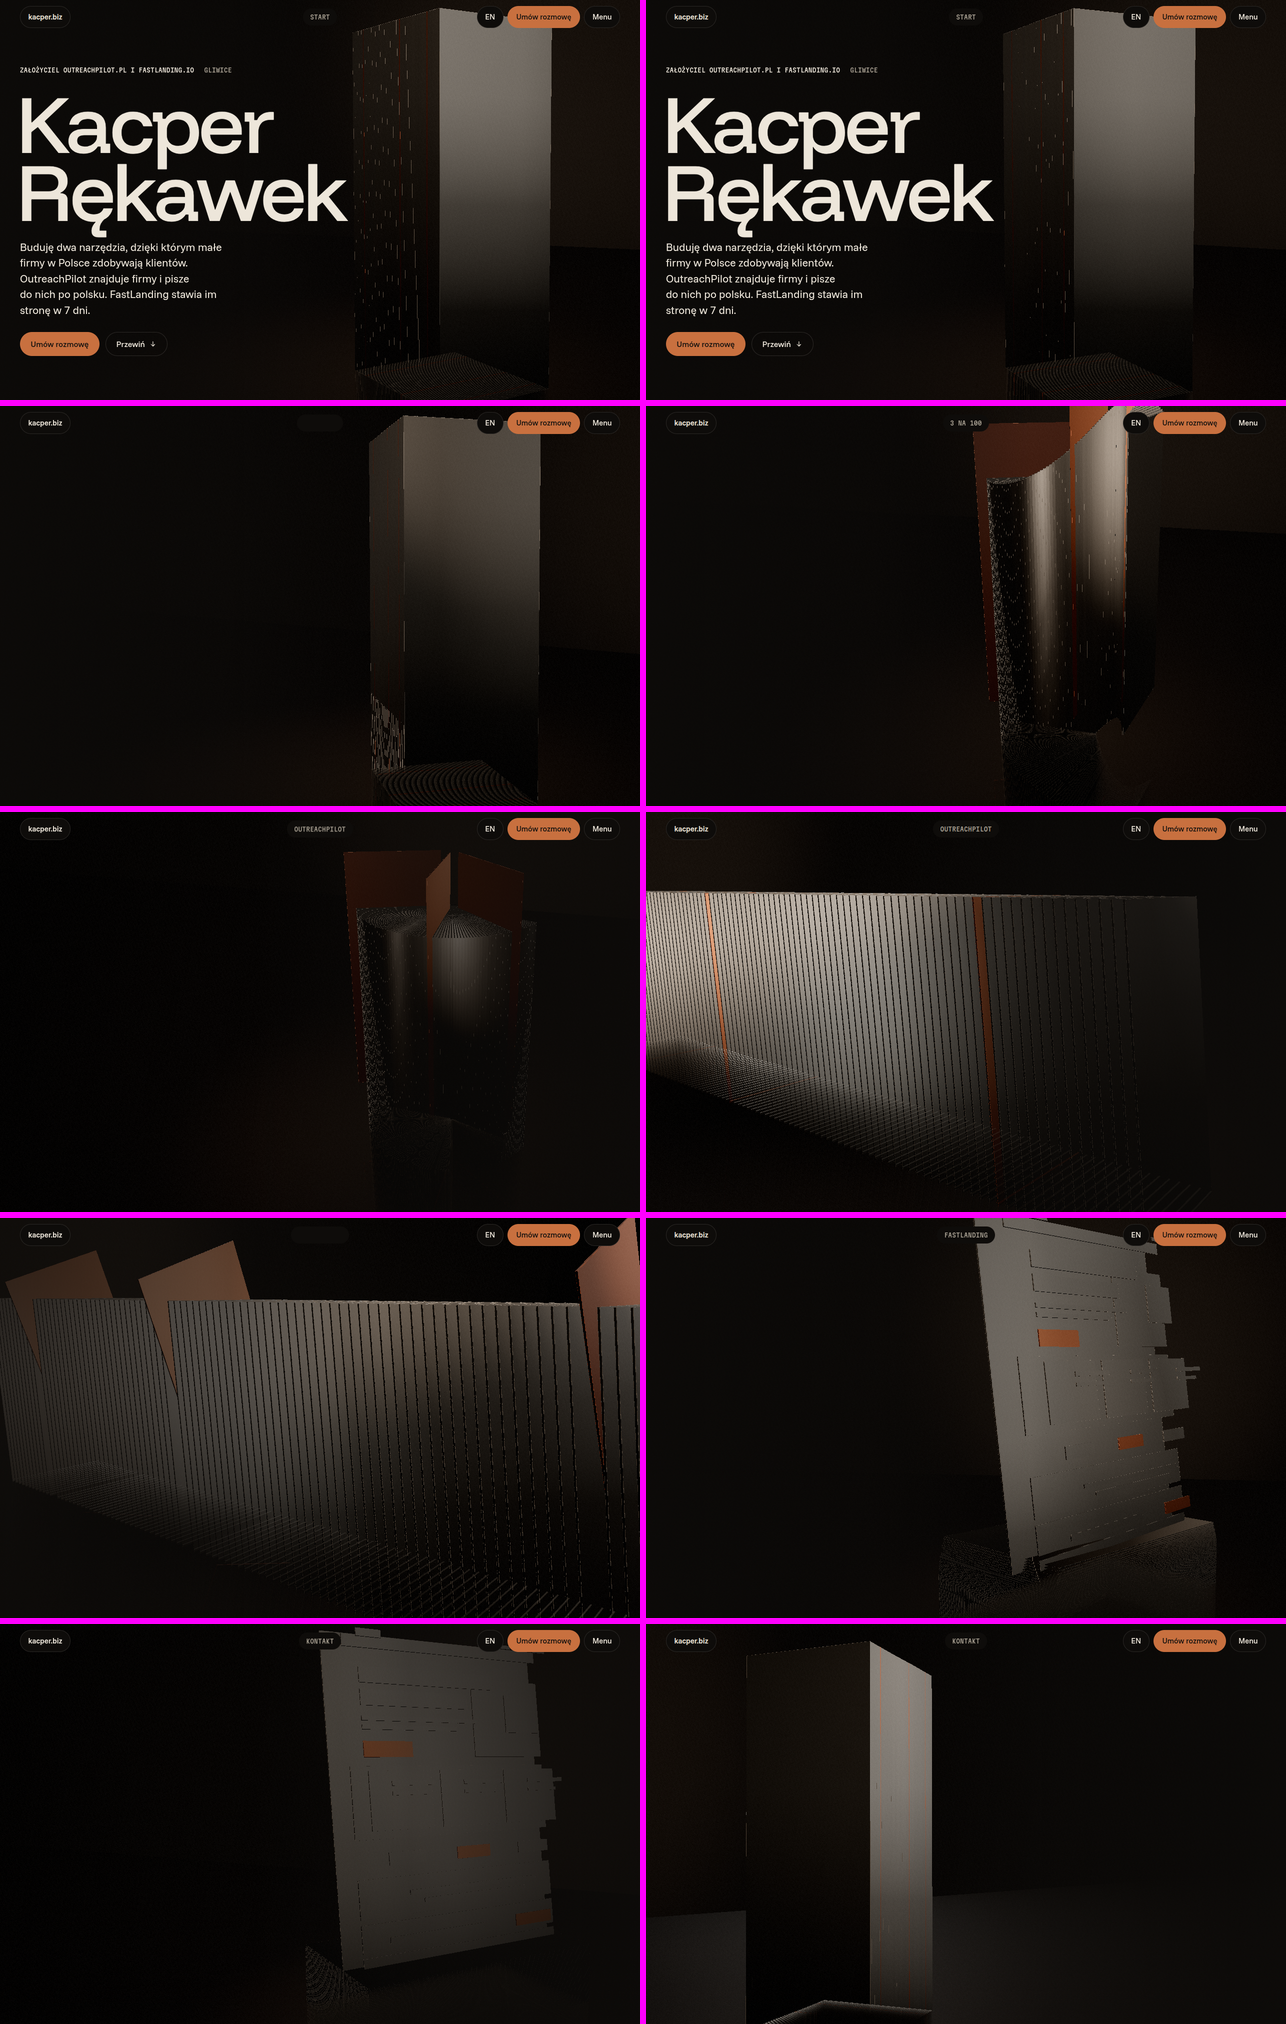
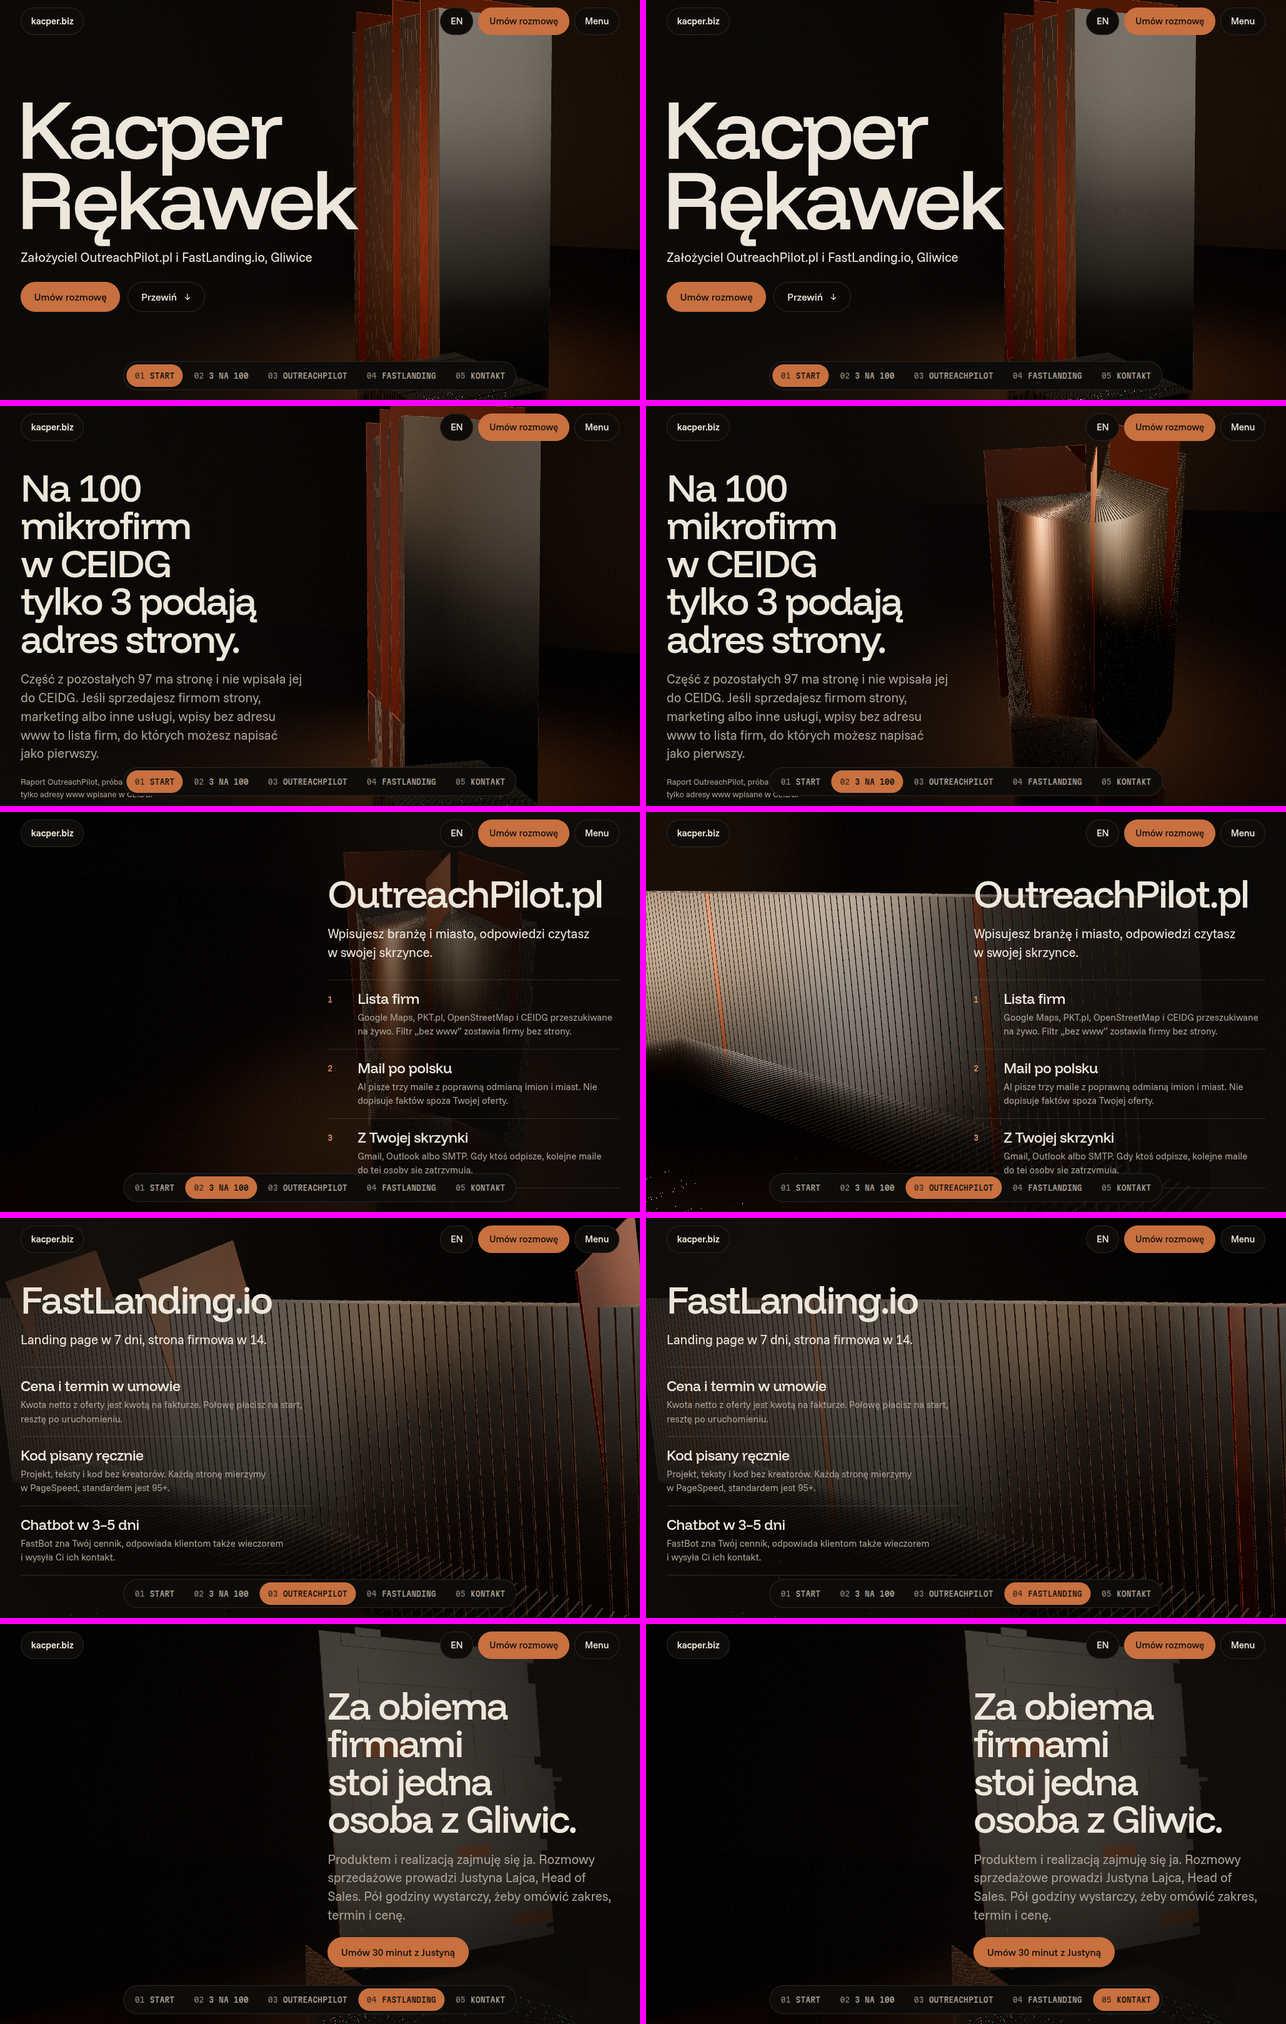
Rebuild after finish review: machined material, copper that takes the light, chapter rail
- stills rendered 3x supersampled off the canvas; the plate shading flattens by output-pixel
  pitch, chamfers get five segments and plates no longer self-shadow, so the stack reads as
  fine machined lines without moire
- the three copper slices stand proud of the block and catch the key; a low copper spill
  warms the floor and the foot of the object
- type holds still: copy fades removed, one line-mask reveal per chapter headline, so the
  chapter copy is always there with or without the film
- chapter rail on the film's bottom edge replaces the header chapter pill
- kickers removed; product chapters set the product name as the display line; one-line
  offer under the name; phone hero fits object, name, offer and actions
- source notes in Funnel Sans; contract clauses without false numbering

Claude-Session: https://claude.ai/code/session_01PECqvRYuMqha9srKUyUX4Z

diff --git a/src/film/monolith.ts b/src/film/monolith.ts
@@ -49,7 +49,9 @@ function monolith(yaw: number): Pose {
   const P = blank();
   const turn = qEuler(0, yaw, 0);
   for (let i = 0; i < N; i++) {
-    P.p[i]!.set((i - (N - 1) / 2) * PITCH, H / 2, 0).applyQuaternion(turn);
+    // the three copper slices stand a few millimetres proud of the block, so their edges take the key light
+    const proud = isCopper(i) ? 1 : 0;
+    P.p[i]!.set((i - (N - 1) / 2) * PITCH, H / 2 + proud * 0.14, proud * 0.06).applyQuaternion(turn);
     P.q[i]!.copy(turn);
     P.order[i] = Math.abs(i - (N - 1) / 2) / ((N - 1) / 2);
     P.occ[i * 2] = i > 0 ? 1 : 0;
@@ -173,18 +175,21 @@ export interface Monolith {
   poses: Pose[];
   /** Blend pose a -> b at t (0..1), with `local` the in-chapter progress for per-chapter motion. */
   apply(a: number, b: number, t: number, local: number, time: number): void;
+  /** Device pixels per output pixel (the supersample factor for stills). */
+  setPxScale(v: number): void;
   dispose(): void;
 }
 
 export function buildMonolith(shadows: boolean): Monolith {
-  const geo = new RoundedBoxGeometry(T, H, D, 2, T * 0.16);
+  const geo = new RoundedBoxGeometry(T, H, D, 5, T * 0.16);
   const mat = new MeshPhysicalMaterial({
     color: '#ffffff', metalness: 1, roughness: 0.3, envMapIntensity: 1.25,
   });
   const mesh = new InstancedMesh(geo, mat, N);
   mesh.instanceMatrix.setUsage(DynamicDrawUsage);
   mesh.castShadow = shadows;
-  mesh.receiveShadow = shadows;
+  // plates cast the contact shadow but never receive one: self-shadowing on 12 mm slices is all acne, no form
+  mesh.receiveShadow = false;
   mesh.frustumCulled = false;
   // anodized aluminium, a warm space grey; polished copper
   const steel = new Color('#8f8b84');
@@ -198,12 +203,15 @@ export function buildMonolith(shadows: boolean): Monolith {
   occ.setUsage(DynamicDrawUsage);
   geo.setAttribute('aOcc', occ);
   const VARY = 'varying float vRough;\nvarying vec2 vOcc;\nvarying vec3 vLocalN;\nvarying float vWorldY;\nvarying vec3 vWorldP;\nvarying vec3 vAx;\nvarying vec3 vAy;\nvarying vec3 vAz;\n';
-  const patch = (reflection: boolean) => (s: { vertexShader: string; fragmentShader: string }) => {
+  // device pixels per output pixel: 1 live, the supersample factor when a still is rendered large and downsampled
+  const pxScale = { value: 1 };
+  const patch = (reflection: boolean) => (s: { vertexShader: string; fragmentShader: string; uniforms: Record<string, { value: unknown }> }) => {
+    s.uniforms.uPxScale = pxScale;
     s.vertexShader = 'attribute float aRough;\nattribute vec2 aOcc;\n' + VARY + s.vertexShader
       .replace('#include <beginnormal_vertex>', '#include <beginnormal_vertex>\n vLocalN = objectNormal;\n mat3 plIm = normalMatrix * mat3(instanceMatrix);\n vAx = normalize(plIm * vec3(1.0, 0.0, 0.0)); vAy = normalize(plIm * vec3(0.0, 1.0, 0.0)); vAz = normalize(plIm * vec3(0.0, 0.0, 1.0));')
       .replace('#include <begin_vertex>', '#include <begin_vertex>\n vRough = aRough; vOcc = aOcc;')
       .replace('#include <project_vertex>', '#include <project_vertex>\n vWorldP = (modelMatrix * instanceMatrix * vec4(transformed, 1.0)).xyz; vWorldY = vWorldP.y;');
-    s.fragmentShader = VARY + s.fragmentShader
+    s.fragmentShader = 'uniform float uPxScale;\n' + VARY + s.fragmentShader
       .replace(
         '#include <roughnessmap_fragment>',
         '#include <roughnessmap_fragment>\n roughnessFactor = clamp(roughnessFactor + (vRough - 0.5) * 0.015, 0.05, 1.0);',
@@ -213,7 +221,7 @@ export function buildMonolith(shadows: boolean): Monolith {
         // where one plate is only a few pixels wide its rounded chamfers would alias into a moire: flatten the
         // shading normal toward the face it belongs to, so the stack reads as a clean block at a distance
         '#include <normal_fragment_maps>\n'
-        + ` float pitchPx = ${PITCH.toFixed(5)} / max(length(fwidth(vWorldP)), 1e-5);\n`
+        + ` float pitchPx = ${PITCH.toFixed(5)} / max(length(fwidth(vWorldP)) * uPxScale, 1e-5);\n`
         + ' vec3 la = abs(vLocalN);\n'
         // a face pressed against a neighbour (and its chamfer) takes the stack face's normal, never its own
         + ' float pressed = step(0.0, -vLocalN.x) * vOcc.x + step(0.0, vLocalN.x) * vOcc.y;\n'
@@ -224,15 +232,15 @@ export function buildMonolith(shadows: boolean): Monolith {
         + ' bool xDom = la.x > la.y && la.x > la.z;\n'
         + ' vec3 flatN = xDom ? (pressed < 0.4 ? sign(vLocalN.x) * vAx : faceN) : (la.y > la.z ? sign(vLocalN.y) * vAy : sign(vLocalN.z) * vAz);\n'
         // (three's specular anti-aliasing reads nonPerturbedNormal, so it has to agree)
-        + (reflection ? '' : ' normal = normalize(mix(normal, flatN * faceDirection, 1.0 - smoothstep(2.5, 7.0, pitchPx)));\n nonPerturbedNormal = normal;\n'),
+        + (reflection ? '' : ' normal = normalize(mix(normal, flatN * faceDirection, 1.0 - smoothstep(2.0, 4.5, pitchPx)));\n nonPerturbedNormal = normal;\n'),
       )
       .replace(
         '#include <opaque_fragment>',
         // faces pressed against a neighbour get no light: the stack reads as machined slices with bright edges
         // (a slice narrower than a few pixels would alias into a moire, so the gaps fade out with distance)
         ' float occN = smoothstep(0.5, 0.92, -vLocalN.x) * vOcc.x + smoothstep(0.5, 0.92, vLocalN.x) * vOcc.y;\n'
-        + ' outgoingLight *= 1.0 - 0.94 * occN * smoothstep(2.5, 6.0, pitchPx);\n'
-        + (reflection ? ' diffuseColor.a *= 0.14 * exp(vWorldY * 1.2);\n' : '')
+        + ' outgoingLight *= 1.0 - 0.94 * occN * smoothstep(2.0, 4.5, pitchPx);\n'
+        + (reflection ? ' diffuseColor.a *= 0.22 * exp(vWorldY * 1.1);\n' : '')
         + '#include <opaque_fragment>',
       );
   };
@@ -305,6 +313,7 @@ export function buildMonolith(shadows: boolean): Monolith {
   apply(0, 0, 0, 0, 0);
   return {
     mesh, reflection, poses, apply,
+    setPxScale(v: number): void { pxScale.value = v; },
     dispose(): void { geo.dispose(); mat.dispose(); refMat.dispose(); mesh.dispose(); },
   };
 }

diff --git a/src/styles/global.css b/src/styles/global.css
@@ -101,7 +101,7 @@ input, textarea { caret-color: var(--copper); }
 .t-body { font-size: var(--t-body); line-height: 1.6; }
 .t-small { font-size: var(--t-small); line-height: 1.5; }
 .t-label { font: 500 var(--t-label)/1.35 var(--f-mono); font-stretch: 87.5%; letter-spacing: 0.01em; text-transform: uppercase; }
-.t-src { font: 400 0.75rem/1.6 var(--f-mono); font-stretch: 87.5%; letter-spacing: 0; color: var(--text-2); max-width: 70ch; }
+.t-src { font: 400 0.8125rem/1.55 var(--f-sans); letter-spacing: 0; color: var(--text-2); max-width: 70ch; }
 .num, .t-num { font-variant-numeric: tabular-nums lining-nums; }
 .dim { color: var(--text-2); }
 .measure { max-width: 62ch; }
@@ -136,28 +136,17 @@ html.film-live .still { opacity: 0; }
 @media (max-width: 959px) {
   .ch { height: var(--len-m, var(--len, 220svh)); }
   /* the object lives in the top half; copy sits low, on a quiet floor */
-  .stage-in { padding-top: 52svh; }
+  .stage-in { padding-top: 48svh; }
+  .ch--first .stage-in { padding-top: 44svh; }
 }
 
+/* the object moves, the type holds still: one line-mask reveal per chapter headline, on the track's own timeline */
 @media (prefers-reduced-motion: no-preference) {
   @supports (animation-timeline: view()) {
-    .ch .copy { animation: copy linear both; animation-timeline: --ch; animation-range: contain 0% contain 100%; }
-    .ch--first .copy { animation-name: copy-first; }
-    .ch--last .copy { animation-name: copy-last; }
-    .ch:not(.ch--first) .copy { opacity: 0; }
-    .ch .reveal { animation: reveal linear both; animation-timeline: --ch; animation-range: contain 0% contain 40%; }
-    .ch--first .reveal { animation: none; }
-    .beat { animation: beat linear both; animation-timeline: --ch; }
-    .beat:nth-child(1) { animation-range: contain 38% contain 58%; }
-    .beat:nth-child(2) { animation-range: contain 52% contain 72%; }
-    .beat:nth-child(3) { animation-range: contain 66% contain 86%; }
+    .ch:not(.ch--first) .reveal { animation: reveal linear both; animation-timeline: --ch; animation-range: contain 0% contain 22%; }
   }
 }
-@keyframes copy { 0% { opacity: 0; transform: translateY(3rem); } 14%, 86% { opacity: 1; transform: none; } 100% { opacity: 0; transform: translateY(-2rem); } }
-@keyframes copy-first { 0%, 80% { opacity: 1; transform: none; } 100% { opacity: 0; transform: translateY(-2.5rem); } }
-@keyframes copy-last { 0% { opacity: 0; transform: translateY(3rem); } 18%, 100% { opacity: 1; transform: none; } }
-@keyframes reveal { 0%, 10% { clip-path: inset(0 0 100% 0); transform: translateY(0.35em); } 60%, 100% { clip-path: inset(0 0 -0.2em 0); transform: none; } }
-@keyframes beat { 0% { opacity: 0.18; transform: translateY(0.6rem); } 40%, 100% { opacity: 1; transform: none; } }
+@keyframes reveal { 0% { clip-path: inset(0 0 100% 0); transform: translateY(0.4em); } 100% { clip-path: inset(0 0 -0.25em 0); transform: none; } }
 
 @media (prefers-reduced-motion: reduce) {
   .ch { height: auto; view-timeline: none; }

diff --git a/src/film/film.ts b/src/film/film.ts
@@ -26,6 +26,8 @@ export interface FilmOptions {
   still?: State;
   /** Keep full quality on software GL (QA). */
   forceQuality?: boolean;
+  /** Render at the page's full devicePixelRatio, past the pixel budget (supersampled stills). */
+  supersample?: boolean;
 }
 
 export interface State { a: number; b: number; t: number; local: number }
@@ -50,7 +52,7 @@ const SHOTS: Shot[] = [
 const TIERS: Record<Tier, { dpr: number; shadows: boolean; shadow: number; msaa: number }> = {
   high: { dpr: 1.5, shadows: true, shadow: 2048, msaa: 4 },
   mid: { dpr: 1.35, shadows: true, shadow: 1024, msaa: 2 },
-  low: { dpr: 1, shadows: false, shadow: 512, msaa: 0 },
+  low: { dpr: 1, shadows: false, shadow: 512, msaa: 2 },
 };
 const PIXEL_BUDGET = 2560 * 1440;
 
@@ -116,7 +118,7 @@ export async function createFilm(canvas: HTMLCanvasElement, opts: FilmOptions): 
   scene.add(mono.reflection, mono.mesh);
 
   const camera = new PerspectiveCamera(30, 1, 0.1, 80);
-  const rt = new WebGLRenderTarget(1, 1, { type: HalfFloatType, samples: cfg.msaa });
+  const rt = new WebGLRenderTarget(1, 1, { type: HalfFloatType, samples: opts.supersample ? 0 : cfg.msaa });
   const post = finalPass();
   post.setInput(rt.texture);
 
@@ -136,7 +138,8 @@ export async function createFilm(canvas: HTMLCanvasElement, opts: FilmOptions): 
     if (!force && w === width && Math.abs(h - height) / Math.max(1, height) < 0.25) return;
     width = w; height = h; mobile = w < 900;
     dpr = Math.min(window.devicePixelRatio || 1, mobile ? Math.min(1.5, cfg.dpr + 0.15) : cfg.dpr) * dprScale;
-    if (w * h * dpr * dpr > PIXEL_BUDGET) dpr = Math.sqrt(PIXEL_BUDGET / (w * h));
+    if (opts.supersample) { dpr = window.devicePixelRatio || 1; mono.setPxScale(dpr); }
+    else if (w * h * dpr * dpr > PIXEL_BUDGET) dpr = Math.sqrt(PIXEL_BUDGET / (w * h));
     renderer.setPixelRatio(dpr);
     renderer.setSize(w, h, false);
     rt.setSize(Math.round(w * dpr), Math.round(h * dpr));
@@ -151,7 +154,7 @@ export async function createFilm(canvas: HTMLCanvasElement, opts: FilmOptions): 
     if (i === 2) { P.z -= local * 1.6; Tg.z -= local * 1.6; }
     off.subVectors(P, Tg);
     if (s.drift) off.applyAxisAngle(new Vector3(0, 1, 0), (local - 0.5) * s.drift);
-    if (mobile) off.multiplyScalar(1.55);
+    if (mobile) off.multiplyScalar(1.72);
     P.copy(Tg).add(off);
     return { fov: s.fov, fx: s.fx };
   };
@@ -168,7 +171,7 @@ export async function createFilm(canvas: HTMLCanvasElement, opts: FilmOptions): 
     camera.lookAt(tgt);
     camera.fov = A.fov + (B.fov - A.fov) * e;
     const fx = mobile ? 0 : A.fx + (B.fx - A.fx) * e;
-    const shiftY = mobile ? height * 0.12 : 0;
+    const shiftY = mobile ? height * 0.09 : 0;
     camera.setViewOffset(width, height, -fx * width, shiftY, width, height);
     camera.updateProjectionMatrix();
     mono.apply(st.a, st.b, st.t, st.local, time);

diff --git a/src/scripts/main.ts b/src/scripts/main.ts
@@ -20,22 +20,24 @@ let film: Film | null = null;
 let filmState: 'idle' | 'starting' | 'live' | 'off' = 'idle';
 let cleanups: Cleanup[] = [];
 
-/* ── wayfinding: the header's centre pill names the chapter or sheet in view ── */
-function wayfinding(): Cleanup {
-  const word = document.querySelector<HTMLElement>('[data-guide-word]');
-  const marks = Array.from(document.querySelectorAll<HTMLElement>('main [data-guide]'));
-  if (!word || !marks.length) return () => undefined;
-  const set = (el: HTMLElement) => {
-    const w = el.dataset.guide ?? '';
-    if (!w || word.textContent === w) return;
-    word.textContent = w;
-    if (!reduced) word.animate([{ opacity: 0, transform: 'translateY(60%)' }, { opacity: 1, transform: 'none' }], { duration: 380, easing: 'cubic-bezier(0.16, 1, 0.3, 1)' });
-  };
+/* ── chapter rail: lights the chapter whose track holds the viewport centre ── */
+function rail(): Cleanup {
+  const nav = document.querySelector<HTMLElement>('[data-rail]');
+  if (!nav) return () => undefined;
+  const links = new Map(Array.from(nav.querySelectorAll<HTMLAnchorElement>('[data-rail-to]')).map((a) => [a.dataset.railTo!, a]));
+  const set = (id: string) => links.forEach((a, k) => { if (k === id) a.setAttribute('aria-current', 'step'); else a.removeAttribute('aria-current'); });
   const io = new IntersectionObserver((entries) => {
-    for (const e of entries) if (e.isIntersecting) set(e.target as HTMLElement);
-  }, { rootMargin: '-45% 0px -54% 0px' });
-  marks.forEach((m) => io.observe(m));
-  return () => io.disconnect();
+    for (const e of entries) if (e.isIntersecting && links.has(e.target.id)) set(e.target.id);
+  }, { rootMargin: '-50% 0px -50% 0px' });
+  document.querySelectorAll<HTMLElement>('[data-ch]').forEach((ch) => io.observe(ch));
+  // the rail belongs to the film: it steps aside while a sheet or the footer passes under it
+  const under = new Set<Element>();
+  const io2 = new IntersectionObserver((entries) => {
+    for (const e of entries) { if (e.isIntersecting) under.add(e.target); else under.delete(e.target); }
+    root.classList.toggle('rail-hide', under.size > 0);
+  }, { rootMargin: '-88% 0px 0px 0px' });
+  document.querySelectorAll('[data-sheet], footer').forEach((el) => io2.observe(el));
+  return () => { io.disconnect(); io2.disconnect(); root.classList.remove('rail-hide'); };
 }
 
 /* ── menu: a full-screen dialog over everything ── */
@@ -160,7 +162,7 @@ function onPage(): void {
   initAttribution();
   initLeadForms();
   cleanups.push(
-    wayfinding(),
+    rail(),
     menu(),
     initRegistry(reduced),
     initShowcase(reduced),

diff --git a/src/film/studio.ts b/src/film/studio.ts
@@ -74,7 +74,7 @@ export function buildStudio(scene: Scene, shadows: boolean, shadowSize: number):
   // a soft, warm pool under the object (reads as the key's footprint even without shadows)
   const pool = new Mesh(
     new CircleGeometry(4.2, 48),
-    new MeshBasicMaterial({ color: '#2a221b', transparent: true, opacity: 0.55, depthWrite: false }),
+    new MeshBasicMaterial({ color: '#4a2f1d', transparent: true, opacity: 0.8, depthWrite: false }),
   );
   pool.rotation.x = -Math.PI / 2;
   pool.position.y = 0.002;
@@ -103,6 +103,14 @@ export function buildStudio(scene: Scene, shadows: boolean, shadowSize: number):
     key.shadow.camera.far = 22;
   }
 
+  // a low copper spill from the front left: it rakes the floor and warms the foot of the object, so the dark field
+  // reads as a lit studio rather than a void
+  const spill = new SpotLight('#ff9a5c', 38, 18, 0.62, 1, 1.4);
+  spill.position.set(-6.5, 0.9, 4.5);
+  spill.target = new Object3D();
+  spill.target.position.set(0.5, 0.2, -0.5);
+  scene.add(spill, spill.target);
+
   const rim = new DirectionalLight('#f3efe8', 1.4);
   rim.position.set(6, 5, -7);
   scene.add(rim);
@@ -112,7 +120,7 @@ export function buildStudio(scene: Scene, shadows: boolean, shadowSize: number):
   back.position.set(0, 12, -9);
   back.receiveShadow = false;
   scene.add(back);
-  const wash = new SpotLight('#ffe7cf', 60, 30, 0.55, 1, 1.2);
+  const wash = new SpotLight('#ffcf9f', 70, 30, 0.55, 1, 1.2);
   wash.position.set(1.5, 3, 4);
   wash.target = new Object3D();
   wash.target.position.set(0.5, 4.2, -9);
